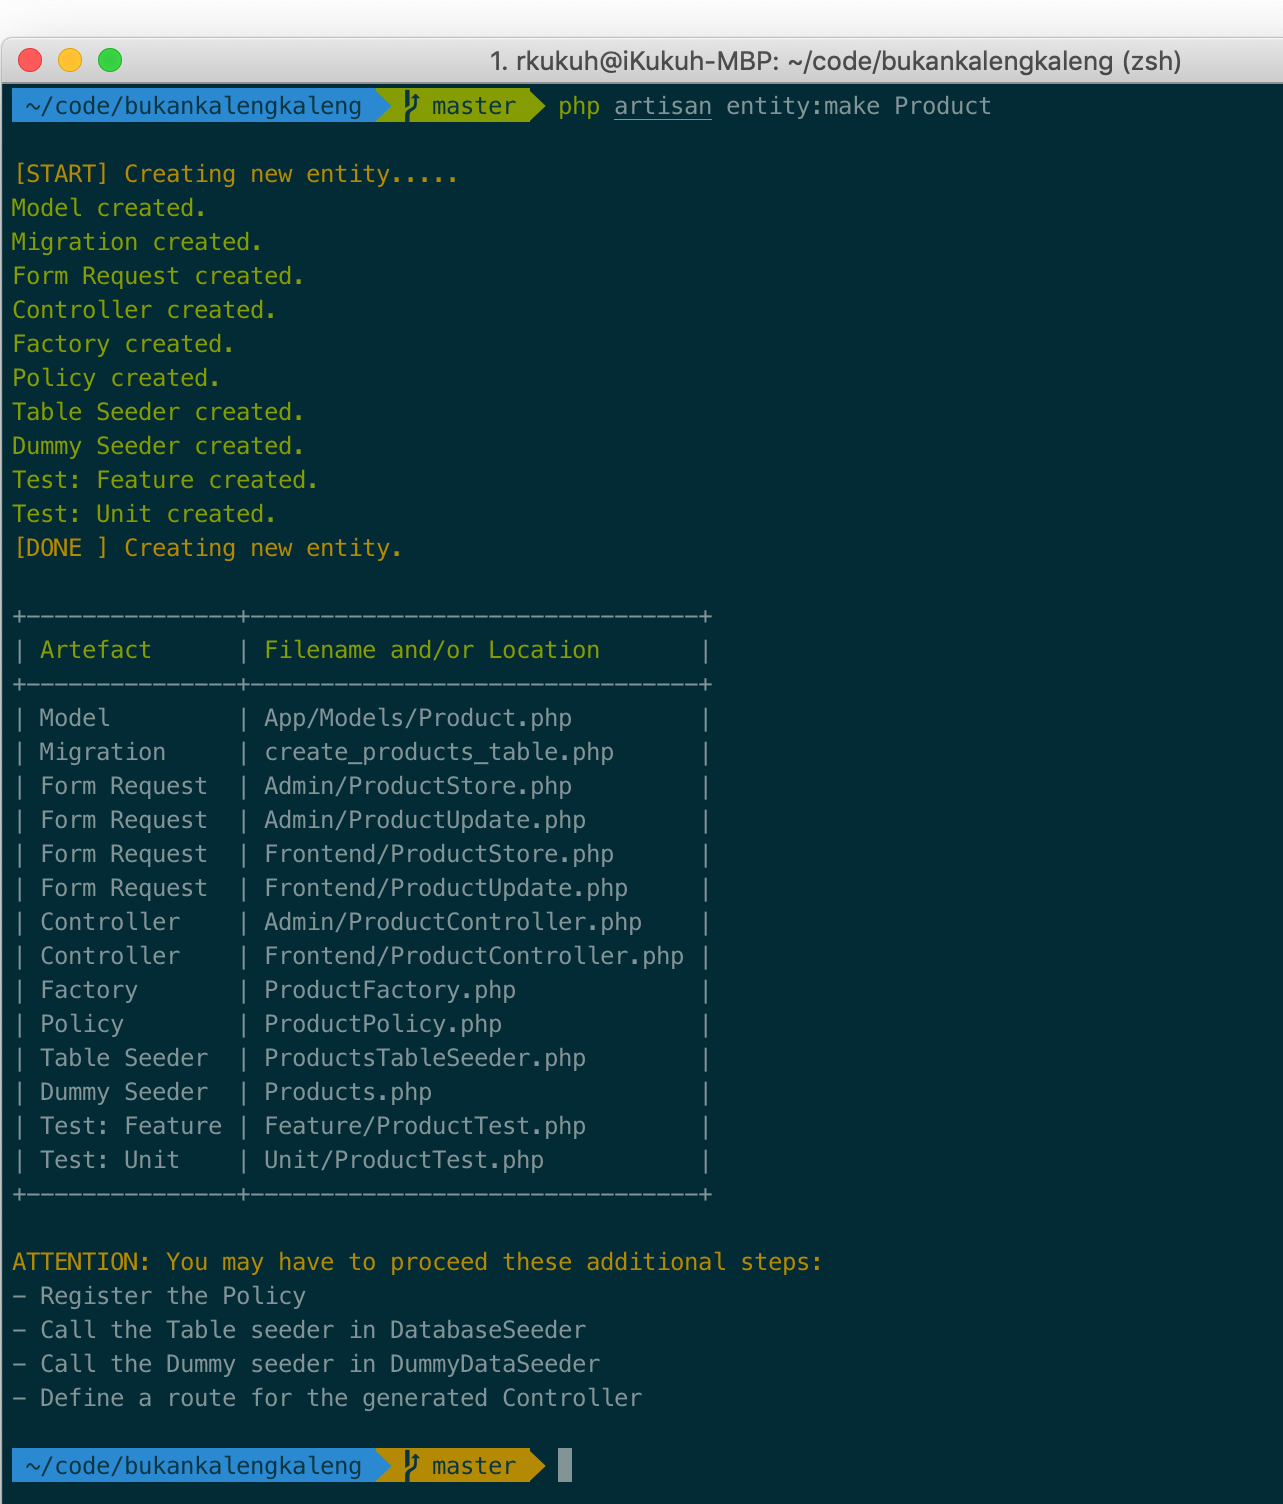
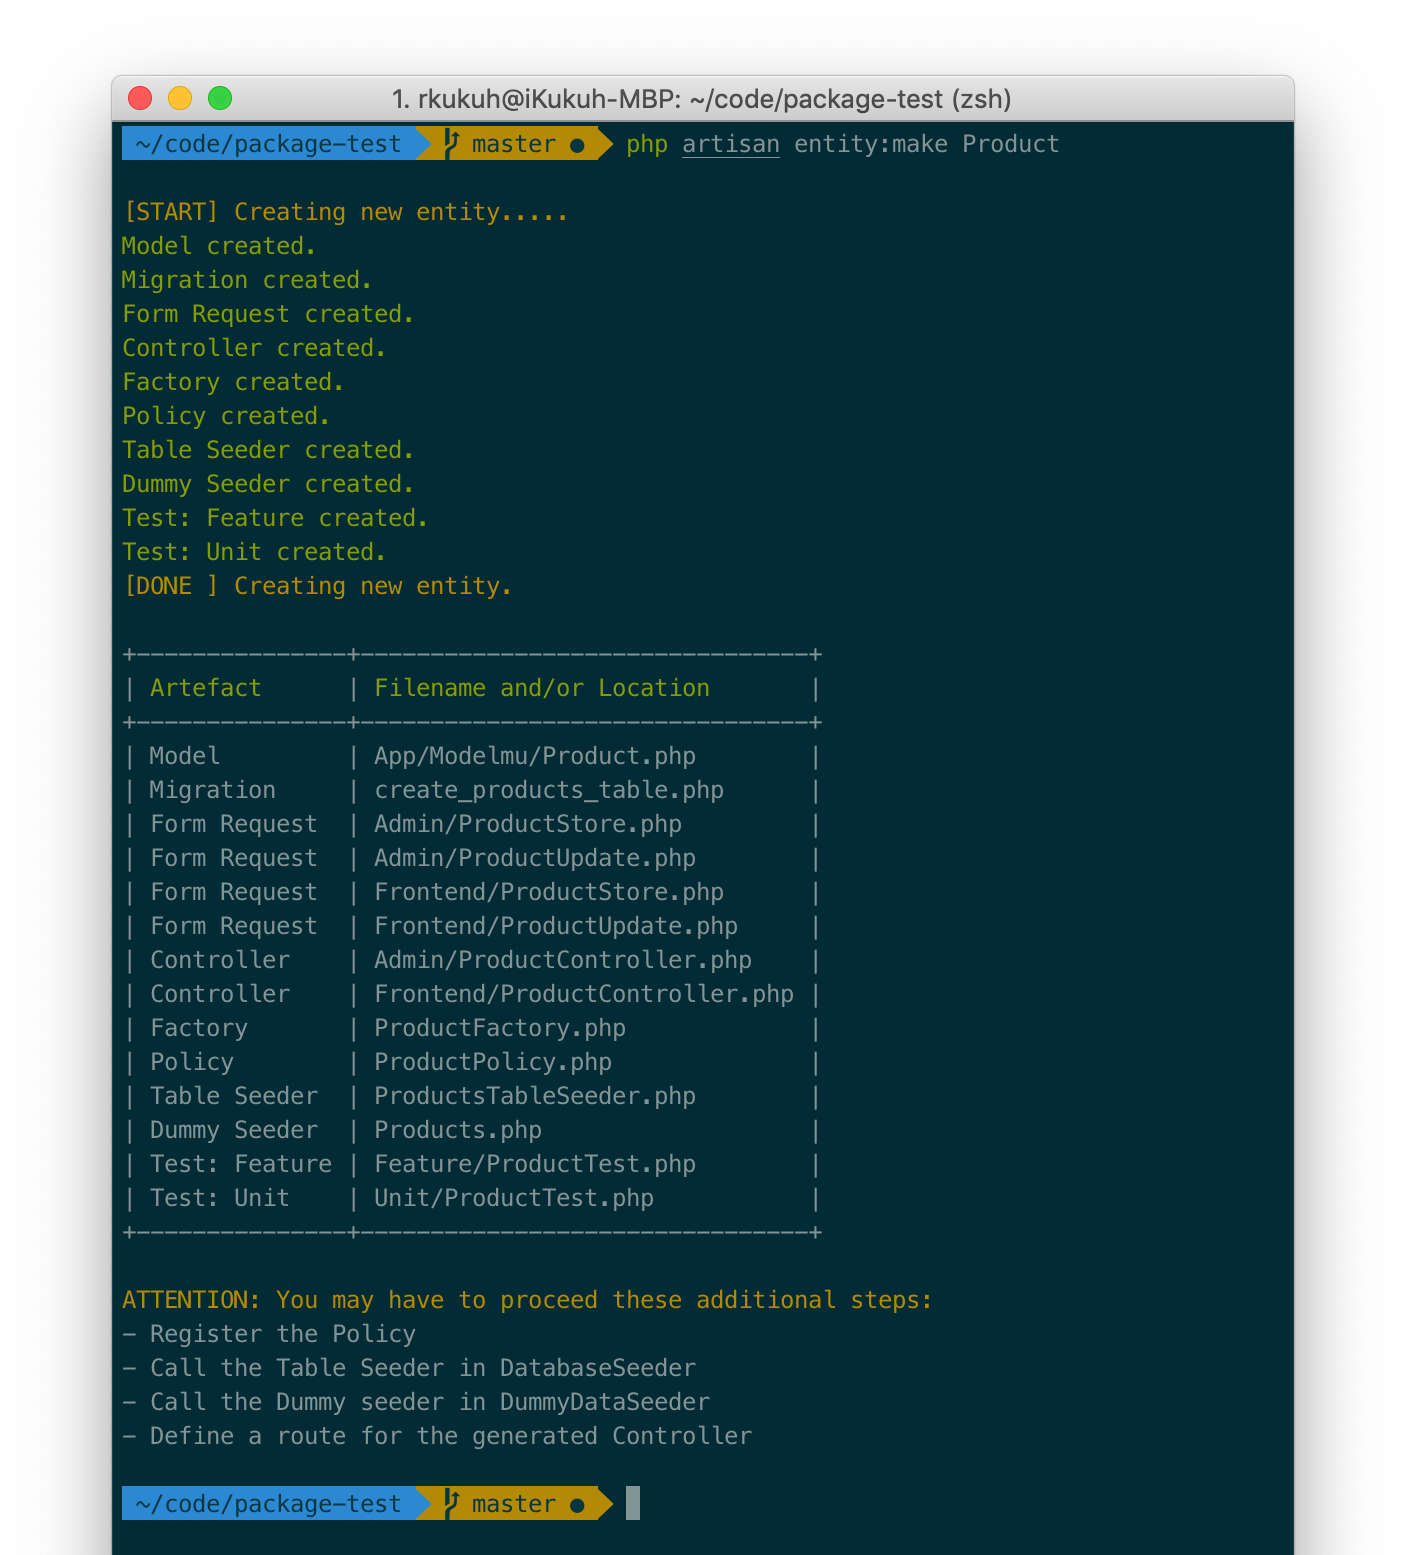
Add screenshots

Changed region(s): [[0.0, 0.0, 1.0, 1.0]]

diff --git a/README.EN.md b/README.EN.md
@@ -53,7 +53,7 @@ In Laravel 5.5 the service provider will automatically get registered. In older 
     - app/tests/Feature/**ProductTest.php**
     - app/tests/Unit/**ProductTest.php**
 
-    <img src="screenshots/01.png" width="60%">
+    <img src="screenshots/01.png" width="45%"> <img src="screenshots/02.png" width="45%">
 
 The entity's namespaces (`Admin` and `Frontend`) are configurable via the `config/entity.php` file, which you have to publish first:
 

diff --git a/README.md b/README.md
@@ -53,7 +53,7 @@ Laravel v5.5 dan keatas akan otomatis meregistrasi package ini. Jika kamu menggu
     - app/tests/Feature/**ProductTest.php**
     - app/tests/Unit/**ProductTest.php**
 
-    <img src="screenshots/01.png" width="60%">
+    <img src="screenshots/01.png" width="45%"> <img src="screenshots/02.png" width="45%">
 
 Namespaces entitas (`Admin` dan `Frontend`) dapat diatur dalam file `config/entity.php` yang harus kamu publish dahulu dengan cara:
 
